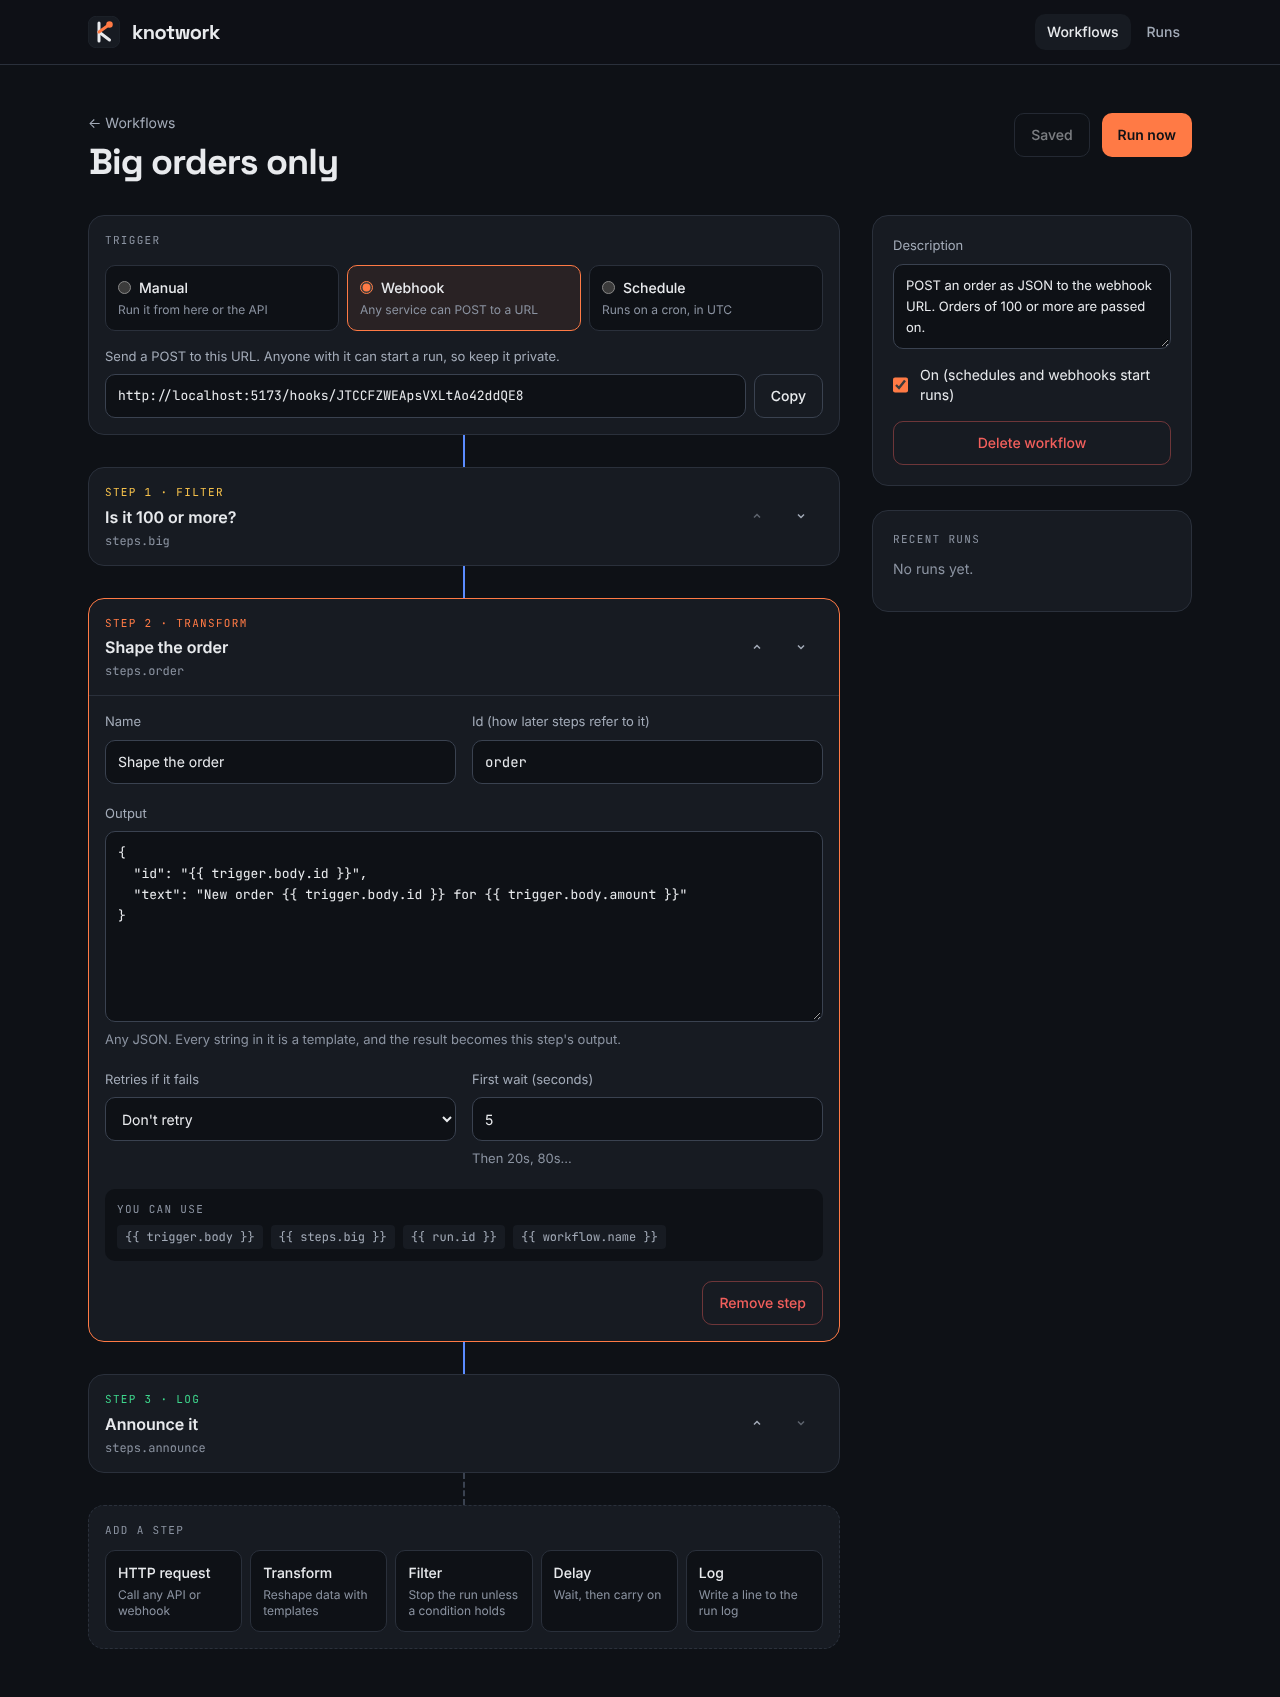
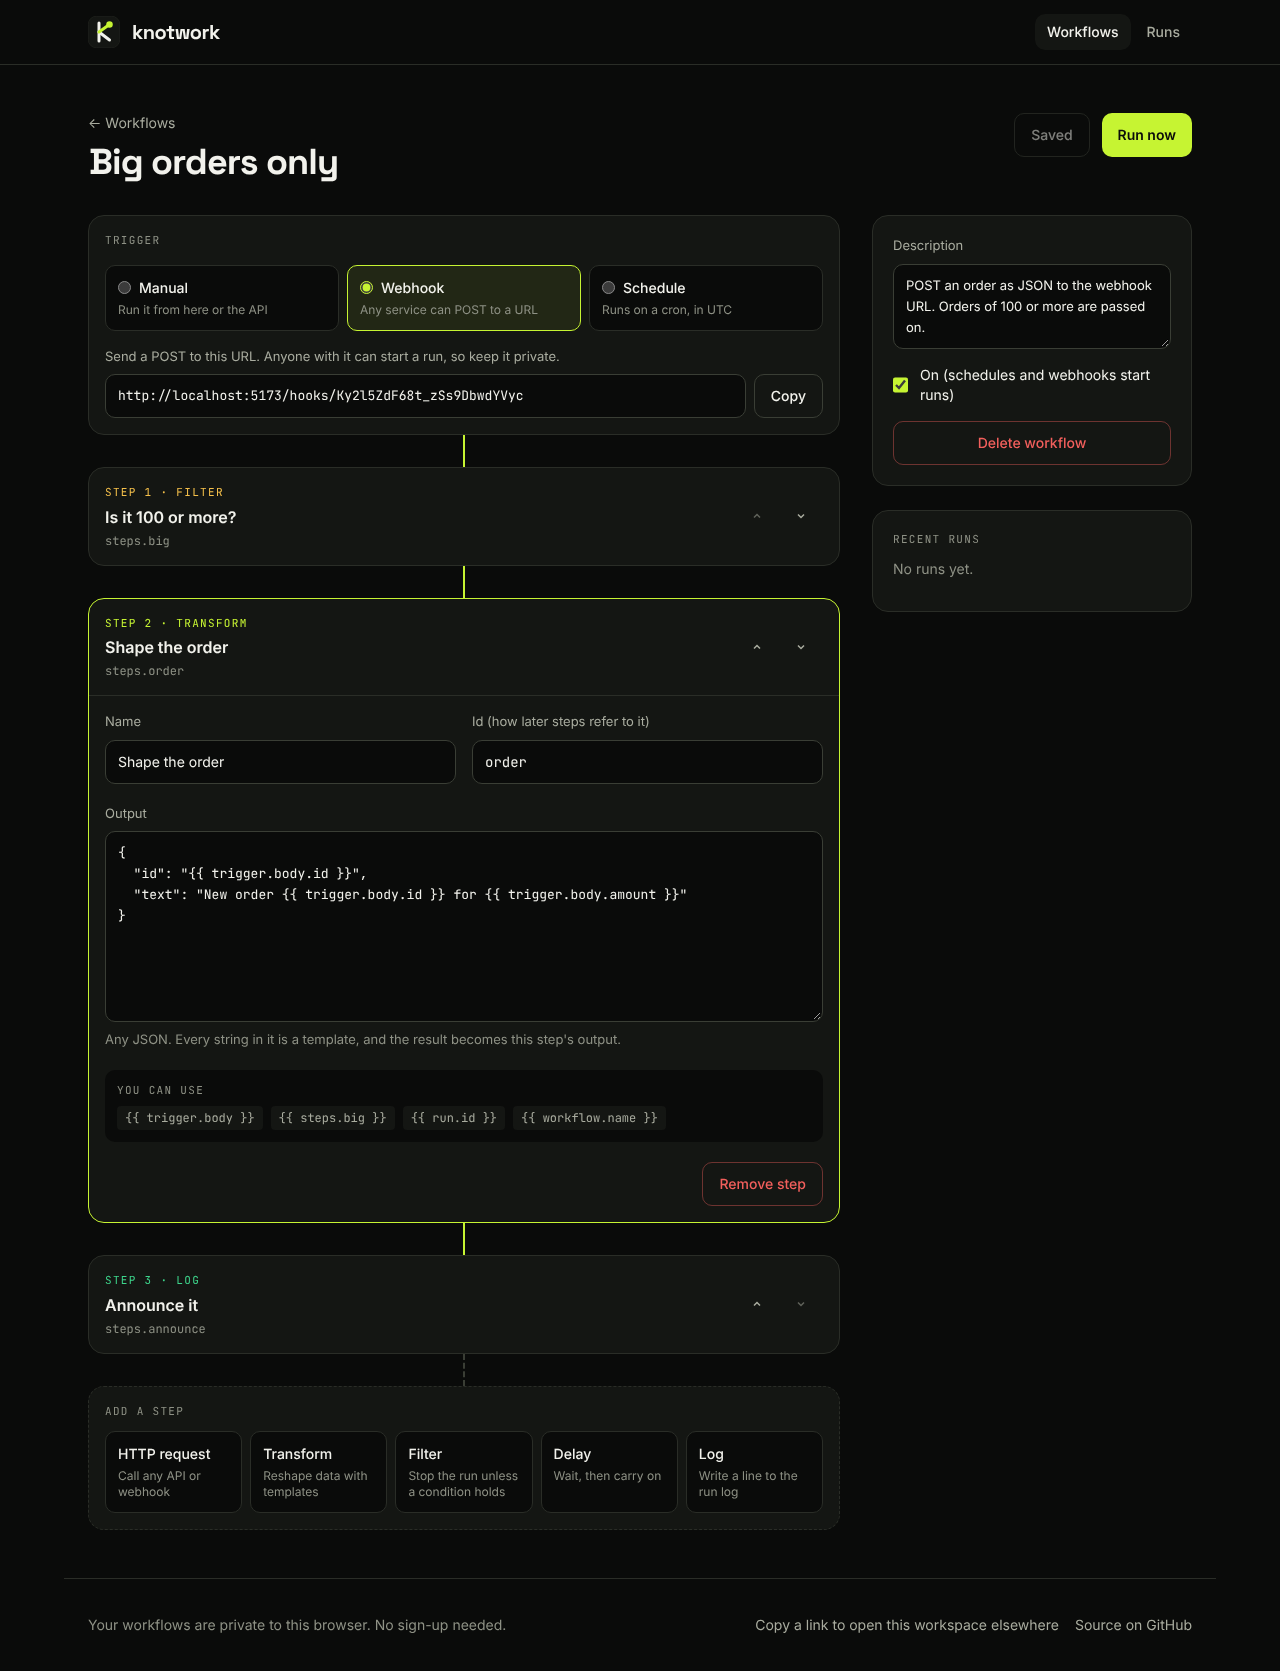
Switch the app to the ink and lime palette
Claude-Session: https://claude.ai/code/session_01NsyoGTGTdopwqjNSzk1DwX

diff --git a/src/components/ui.tsx b/src/components/ui.tsx
@@ -8,11 +8,11 @@ export function cn(...parts: (string | false | null | undefined)[]) {
 export function Logo({ size = 32 }: { size?: number }) {
   return (
     <svg width={size} height={size} viewBox="0 0 64 64" aria-hidden="true">
-      <rect x="0.5" y="0.5" width="63" height="63" rx="16" fill="#171B22" stroke="#2A303B" />
-      <path d="M22 14V50" stroke="#E8EAED" strokeWidth="6" strokeLinecap="round" fill="none" />
-      <path d="M22 32L43 48" stroke="#E8EAED" strokeWidth="6" strokeLinecap="round" fill="none" />
-      <path d="M22 32L40 19" stroke="#FF7A45" strokeWidth="6" strokeLinecap="round" fill="none" />
-      <circle cx="43" cy="17" r="6.5" fill="#FF7A45" />
+      <rect x="0.5" y="0.5" width="63" height="63" rx="16" fill="#141613" stroke="#2A2D27" />
+      <path d="M22 14V50" stroke="#F2F2EC" strokeWidth="6" strokeLinecap="round" fill="none" />
+      <path d="M22 32L43 48" stroke="#F2F2EC" strokeWidth="6" strokeLinecap="round" fill="none" />
+      <path d="M22 32L40 19" stroke="#C6F432" strokeWidth="6" strokeLinecap="round" fill="none" />
+      <circle cx="43" cy="17" r="6.5" fill="#C6F432" />
     </svg>
   );
 }

diff --git a/src/index.css b/src/index.css
@@ -1,18 +1,18 @@
 @import "tailwindcss";
 
-/* Knotwork brand tokens. Dark first. */
+/* Knotwork brand tokens: ink and lime, dark first. */
 @theme {
-  --color-ink: #0e1116;
-  --color-deep: #12161c;
-  --color-graphite: #171b22;
-  --color-line: #2a303b;
-  --color-edge: #3a4250;
-  --color-text: #e8eaed;
-  --color-soft: #a3abb8;
-  --color-muted: #8b93a1;
-  --color-spark: #ff7a45;
-  --color-spark-hover: #ff9466;
-  --color-wire: #5b8cff;
+  --color-ink: #0a0b0a;
+  --color-deep: #0f110e;
+  --color-graphite: #141613;
+  --color-line: #2a2d27;
+  --color-edge: #3a3e35;
+  --color-text: #f2f2ec;
+  --color-soft: #a9ac9f;
+  --color-muted: #8e9185;
+  --color-spark: #c6f432;
+  --color-spark-hover: #d8fa6e;
+  --color-wire: #c6f432;
   --color-pass: #3dd68c;
   --color-retry: #f5c04a;
   --color-fail: #f25f5c;
@@ -40,6 +40,6 @@ body {
 }
 
 .dots {
-  background-image: radial-gradient(#232833 1px, transparent 1px);
+  background-image: radial-gradient(#1E211B 1px, transparent 1px);
   background-size: 24px 24px;
 }

diff --git a/index.html b/index.html
@@ -3,7 +3,7 @@
   <head>
     <meta charset="UTF-8" />
     <meta name="viewport" content="width=device-width, initial-scale=1.0" />
-    <meta name="theme-color" content="#0E1116" />
+    <meta name="theme-color" content="#0A0B0A" />
     <meta name="description" content="Knotwork: workflows that hold. An open-source automation engine on Cloudflare." />
     <link rel="icon" type="image/svg+xml" href="/favicon.svg" />
     <link rel="preconnect" href="https://fonts.googleapis.com" />
